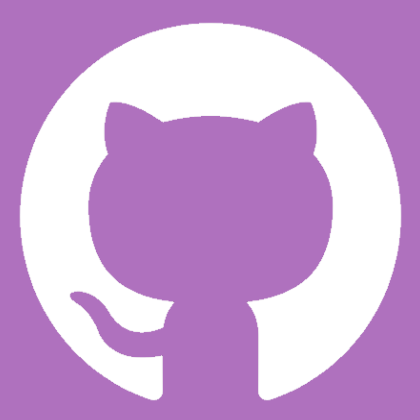
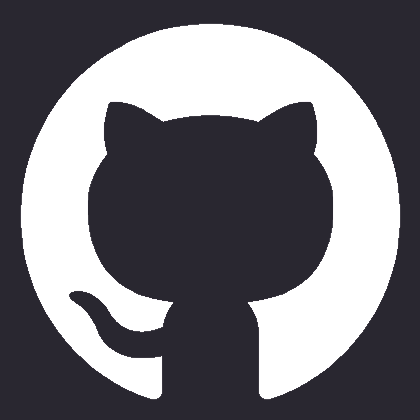
Updated home style

diff --git a/style/main-style.css b/style/main-style.css
@@ -151,24 +151,22 @@ html {
     width:2.5em;
     height:2.5em;
     margin:0.4em;
-    filter:grayscale(70%) brightness(140%);
     transition: 0.2s;
-    border-radius: 0.3em;
+    box-shadow: 2px 2px #b983c6;
 }
 
 .socials img:hover{
-    filter: grayscale(0%) brightness(100%);
     width: 2.7em;
     height: 2.7em;
     margin: 0.3em;
-    box-shadow: 0px 4px 8px 0px rgba(0,0,0,0.2);
+    box-shadow: 5px 5px #b983c6;
 }
 
 
 #mypic {
     width: 15em;
     margin: 0em 2em 0.5em 0em;
-    border-radius: 1em;
+    box-shadow: 5px 5px #b983c6;
 }
 
 a:link {
